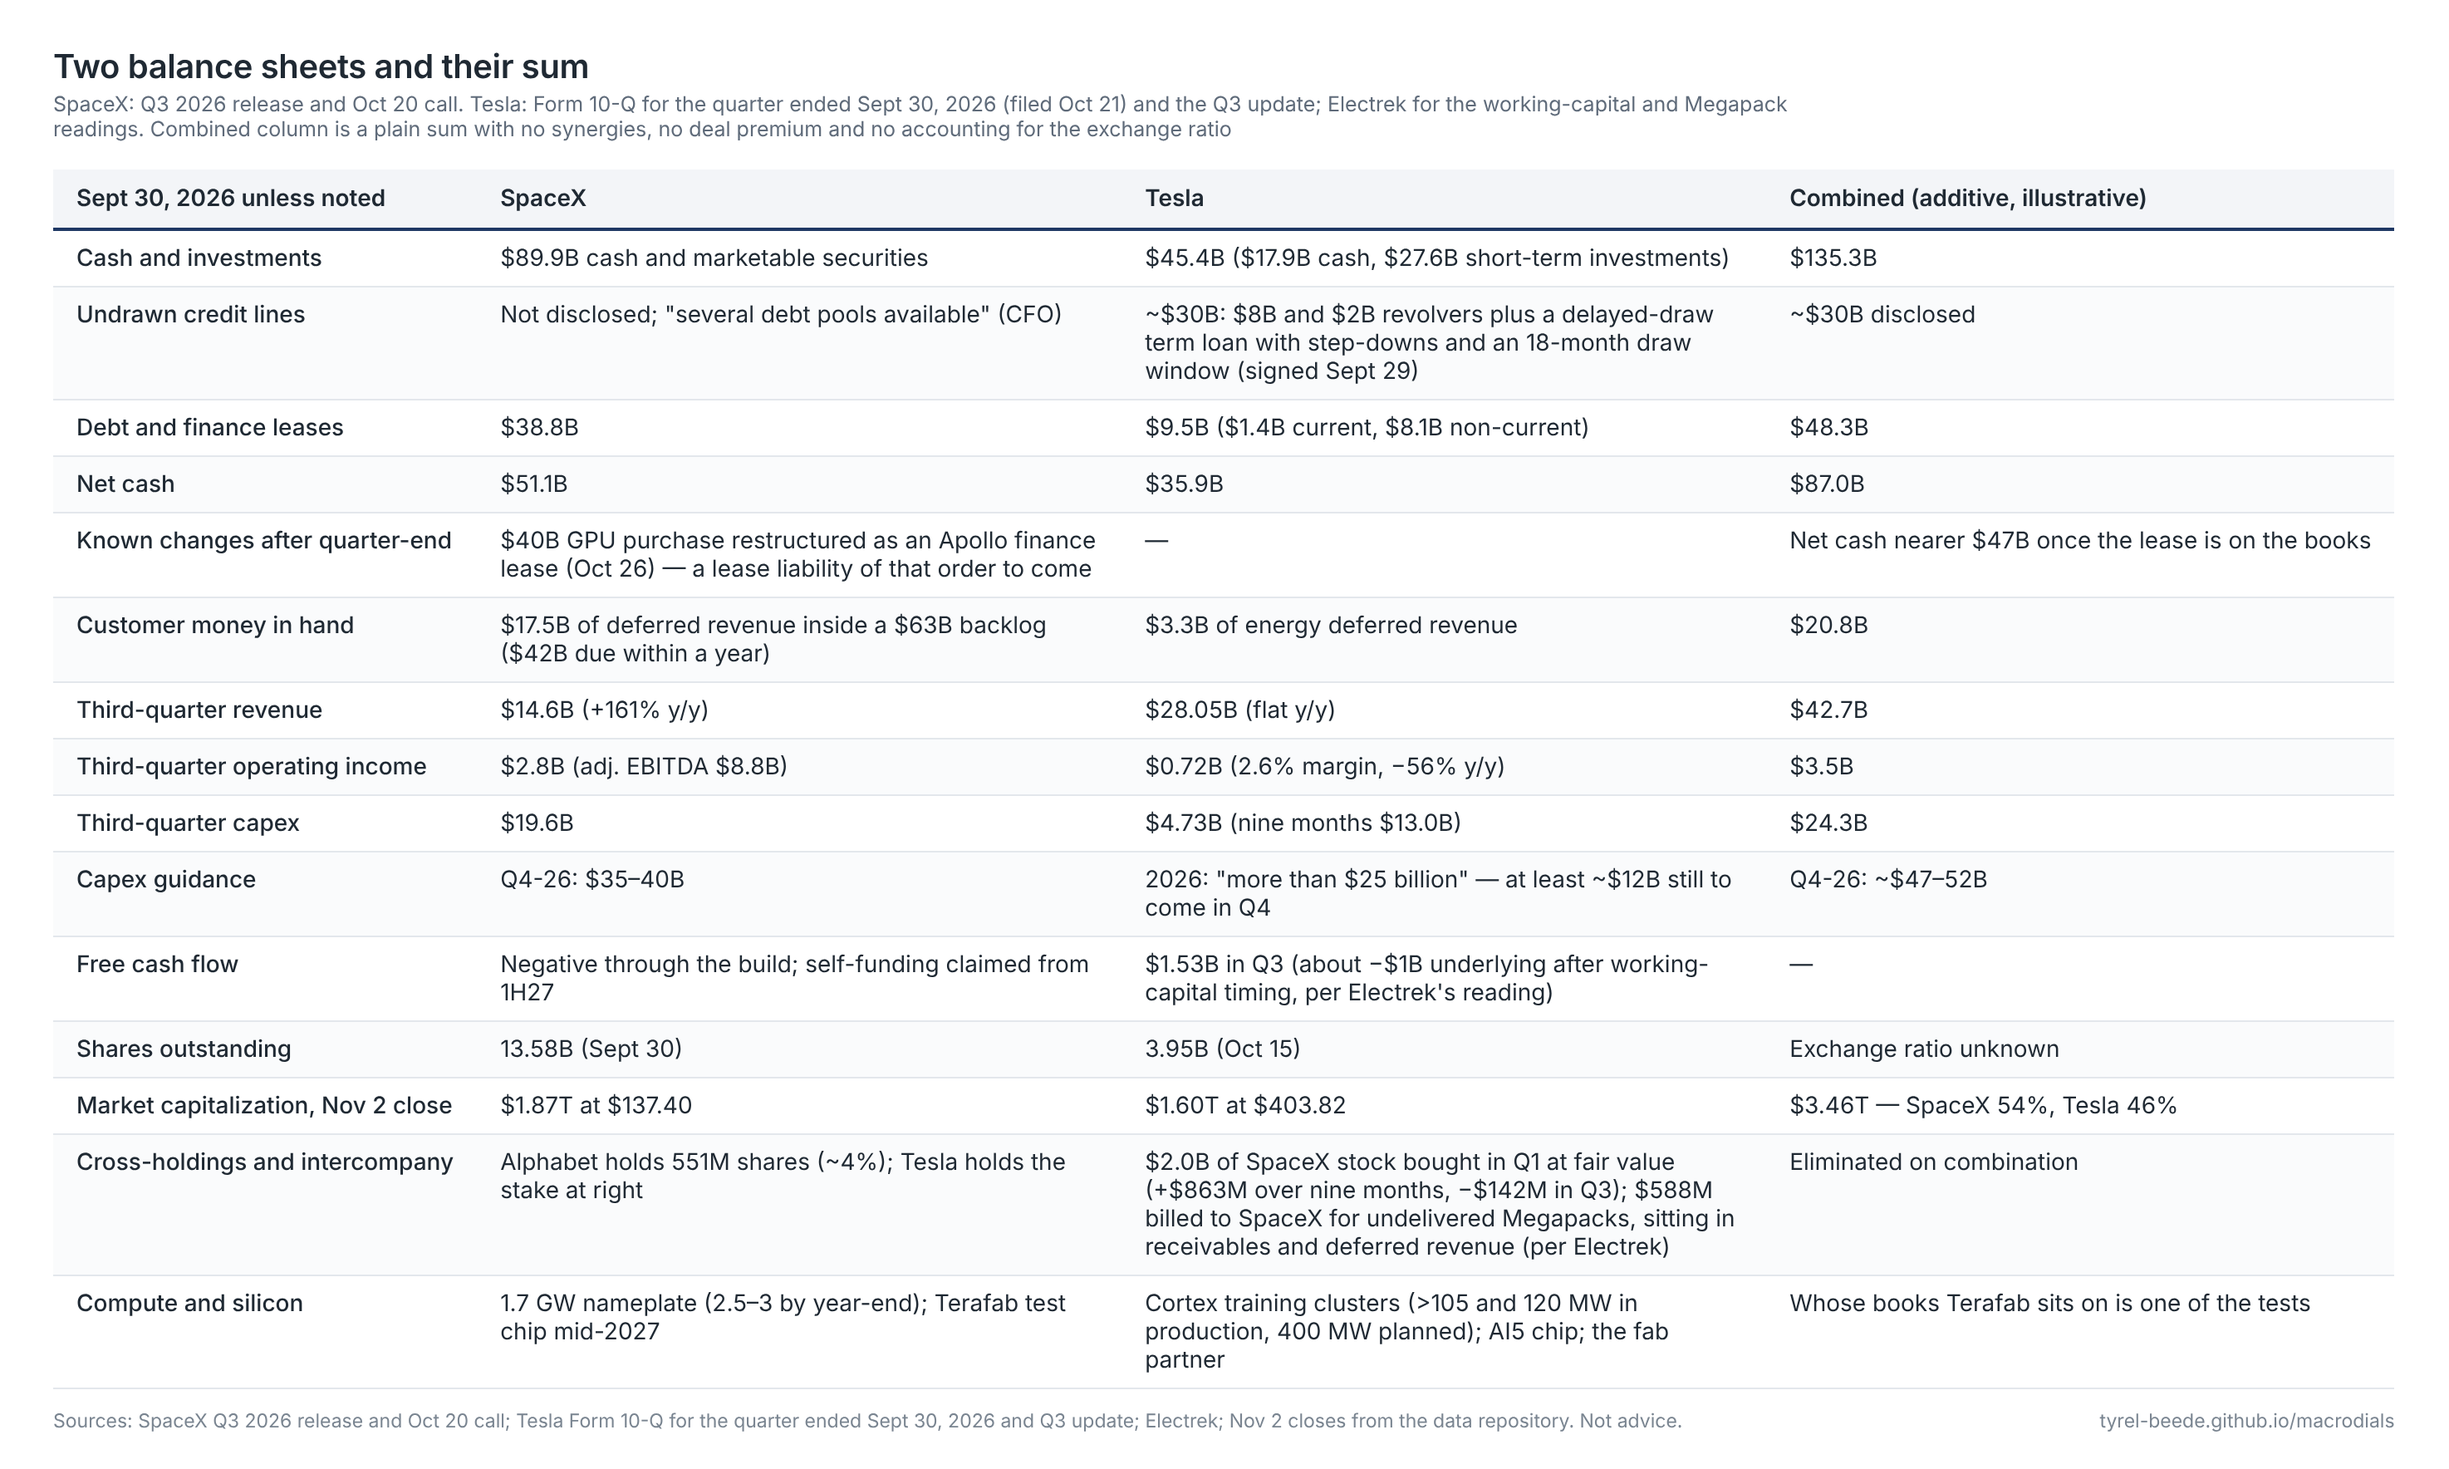
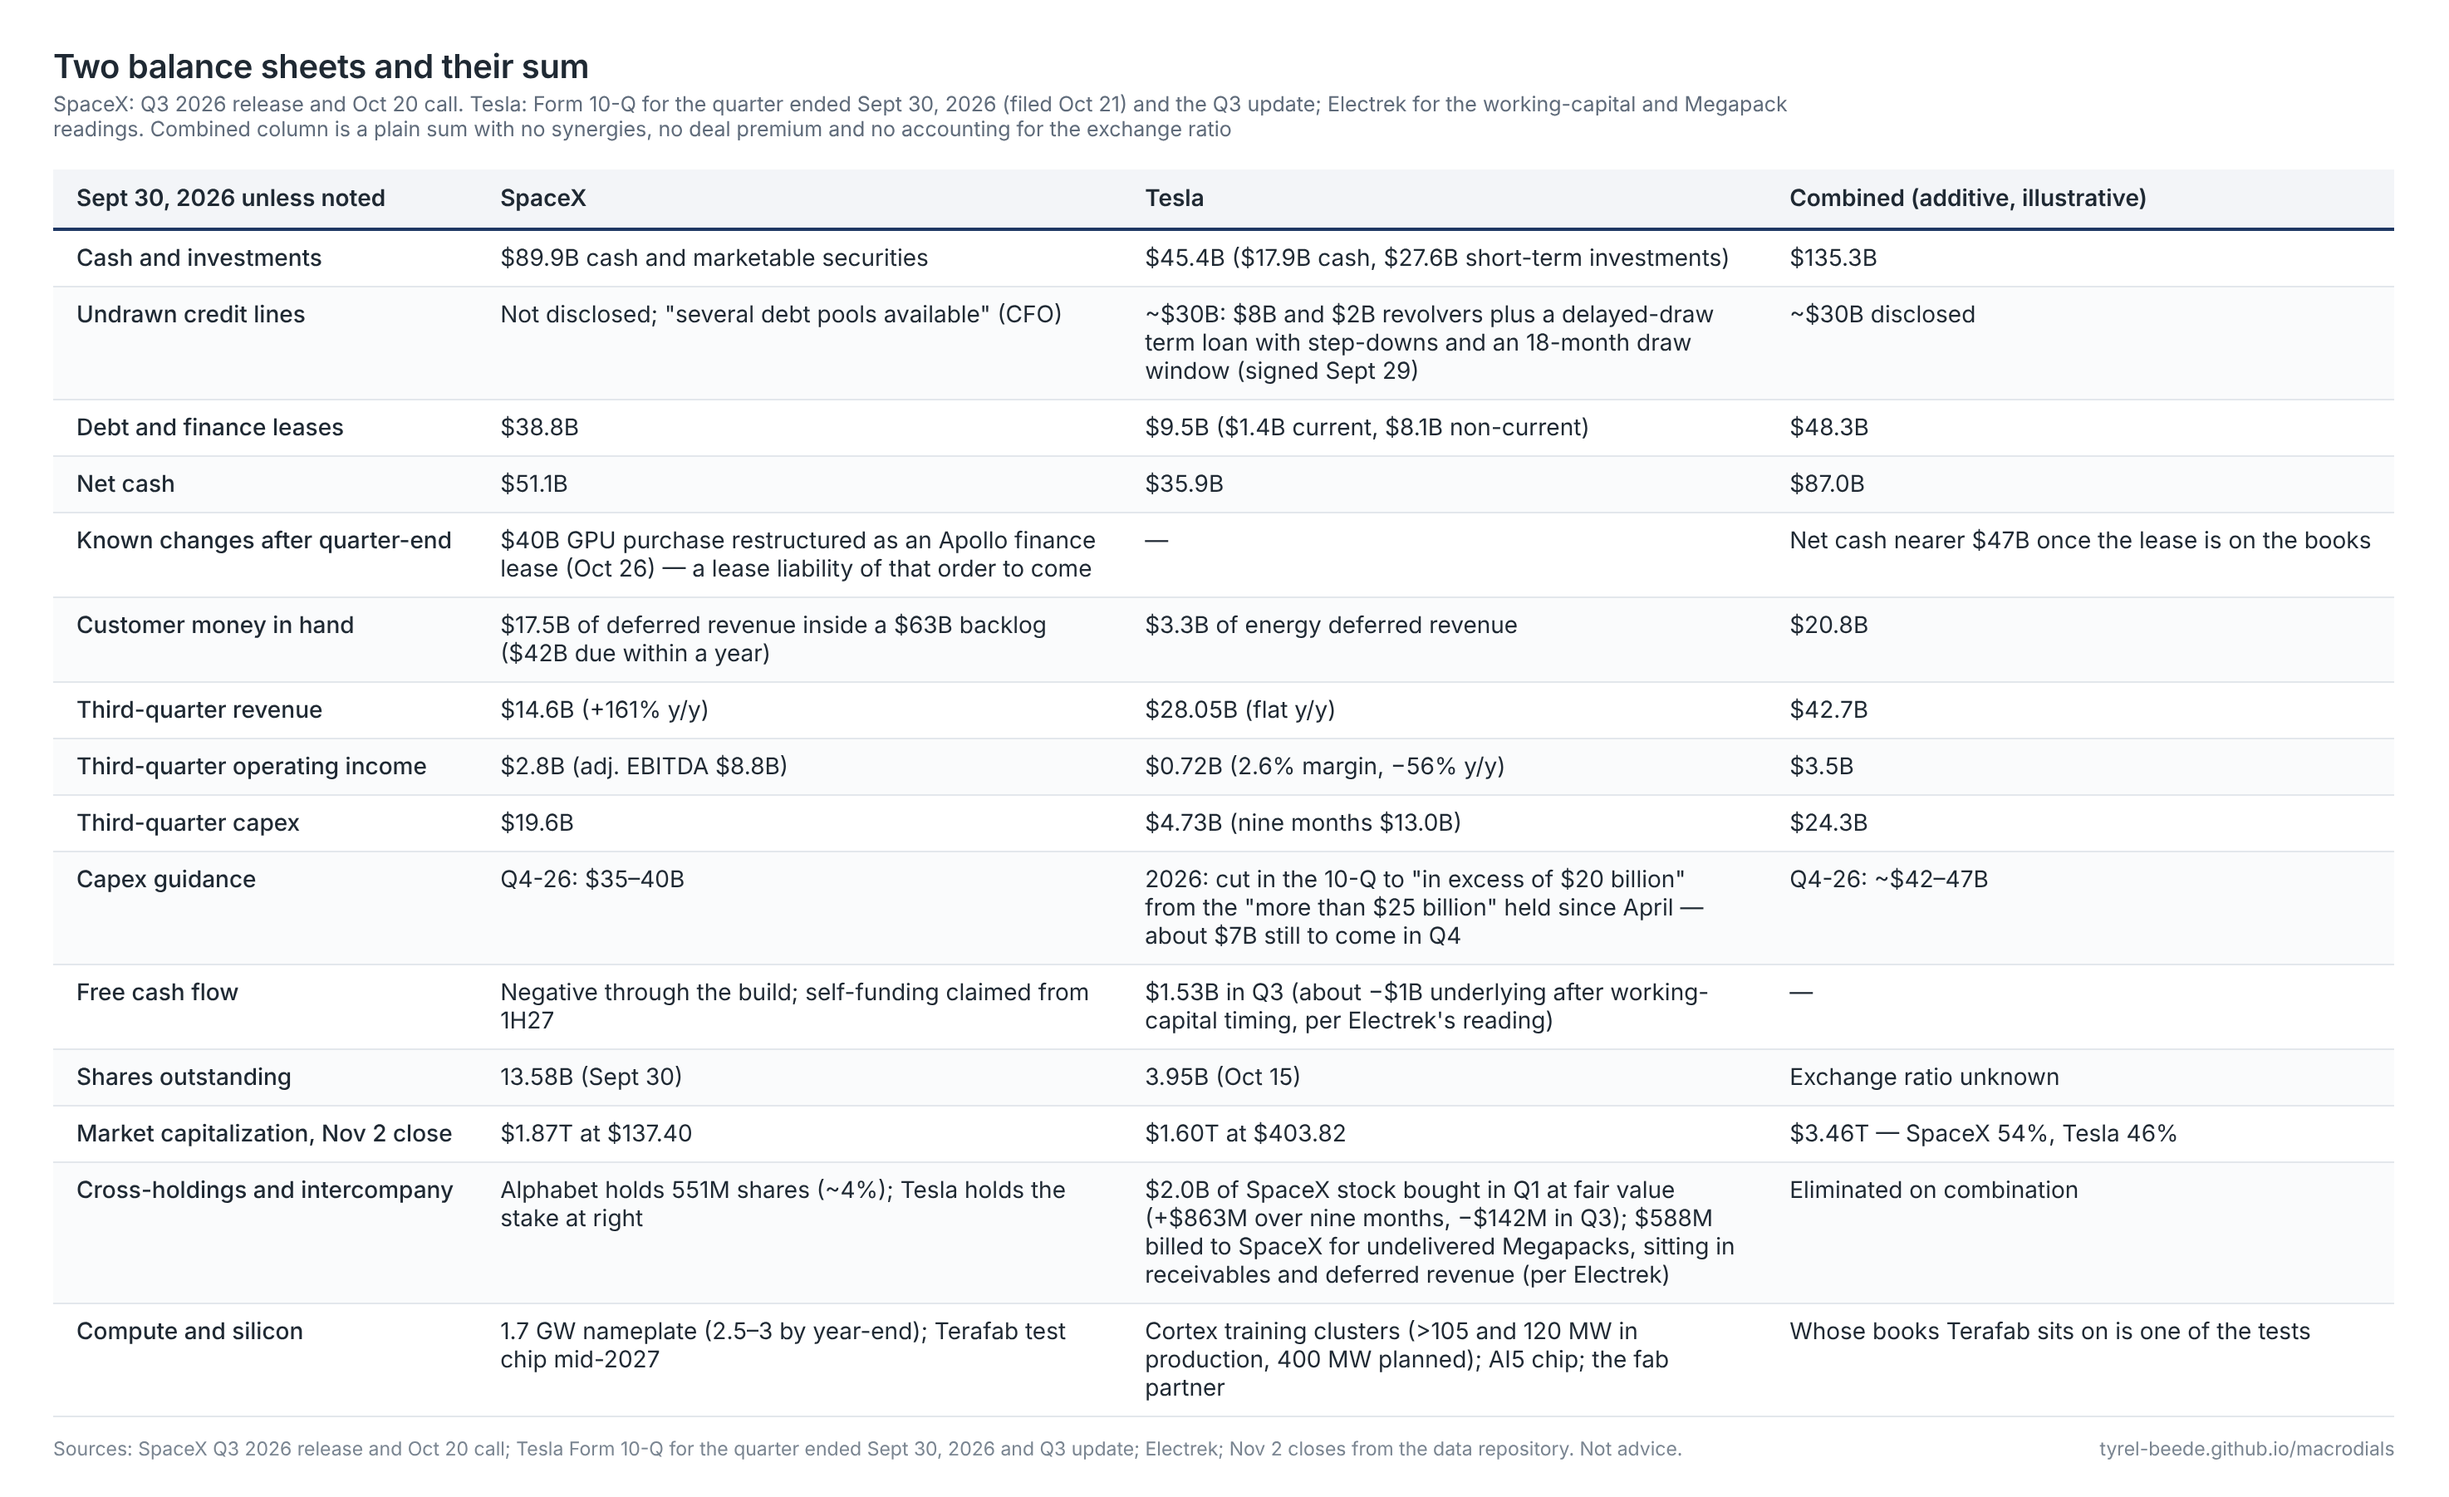
Balance-sheet page: Tesla's 2026 capex guide was cut to "in excess of $20 billion"
The 10-Q lowered the full-year guide from "more than $25 billion" (held since April), so about
$7B remains for Q4 — the article had this right; the new page and its table did not.

Claude-Session: https://claude.ai/code/session_018bD6wvLDvuXJaxpEr5BHs2

diff --git a/tools/site_tables.py b/tools/site_tables.py
@@ -104,7 +104,7 @@ STATIC["balance-sheets"] = [
     ["Third-quarter revenue", "$14.6B (+161% y/y)", "$28.05B (flat y/y)", "$42.7B"],
     ["Third-quarter operating income", "$2.8B (adj. EBITDA $8.8B)", "$0.72B (2.6% margin, −56% y/y)", "$3.5B"],
     ["Third-quarter capex", "$19.6B", "$4.73B (nine months $13.0B)", "$24.3B"],
-    ["Capex guidance", "Q4-26: $35–40B", "2026: \"more than $25 billion\" — at least ~$12B still to come in Q4", "Q4-26: ~$47–52B"],
+    ["Capex guidance", "Q4-26: $35–40B", "2026: cut in the 10-Q to \"in excess of $20 billion\" from the \"more than $25 billion\" held since April — about $7B still to come in Q4", "Q4-26: ~$42–47B"],
     ["Free cash flow", "Negative through the build; self-funding claimed from 1H27", "$1.53B in Q3 (about −$1B underlying after working-capital timing, per Electrek's reading)", "—"],
     ["Shares outstanding", "13.58B (Sept 30)", "3.95B (Oct 15)", "Exchange ratio unknown"],
     ["Market capitalization, Nov 2 close", "$1.87T at $137.40", "$1.60T at $403.82", "$3.46T — SpaceX 54%, Tesla 46%"],
@@ -117,7 +117,7 @@ STATIC["versions"] = [
     ["The bull's sheet (Maguire 1.0)", "SpaceX, plus orbital compute and a chip fab as revenue lines. Tesla absent", "SpaceX plus $31B of orbital revenue and fab revenue in 2028", "SpaceX's, with no capex for orbital or the fab", "Reference columns on Summary and Valuation; the Bridge sheet"],
     ["Model 2.0 (scenarios 2–4)", "SpaceX as reported, with Terafab and Starmind as capex programs. Tesla absent", "SpaceX's three segments; no Tesla revenue", "SpaceX's, with leases, prepayments, debt and equity in the bridge", "Compute, Starlink, Launch, Consolidated"],
     ["Model 2.0 with the Tesla toggle on", "As above, plus Tesla's liquidity as a funding source", "Unchanged — no Tesla revenue", "Adds ~$75B of Tesla cash and lines to the bridge; no Tesla capex, debt or shares", "Assumptions › Combination toggle; Consolidated › Tesla pool"],
-    ["A combined SpaceX–Tesla company (the article's thesis)", "Both companies, with eliminations", "Adds Tesla's ~$112B run-rate at a 2–3% operating margin, and the robotaxi program", "Adds $45B cash, $30B of lines, $9.5B debt, >$25B a year of capex, and 3.95B shares at an exchange ratio the special committees would set", "Not modeled — see the page for what a full version needs"],
+    ["A combined SpaceX–Tesla company (the article's thesis)", "Both companies, with eliminations", "Adds Tesla's ~$112B run-rate at a 2–3% operating margin, and the robotaxi program", "Adds $45B cash, $30B of lines, $9.5B debt, $20B-plus a year of capex, and 3.95B shares at an exchange ratio the special committees would set", "Not modeled — see the page for what a full version needs"],
 ]
 TITLES.update({
     "balance-sheets": "Two balance sheets and their sum",

diff --git a/docs/model/balance-sheets.md b/docs/model/balance-sheets.md
@@ -27,13 +27,13 @@ At the Nov 2 close of $137.40 the company's 13.58 billion shares were worth abou
 
 Tesla's quarter, reported Oct 21, was a flat one at the top — $28.05 billion of revenue, unchanged from a year earlier — and a thin one underneath: $718 million of operating income, a 2.6% margin, down 56%. Cash and short-term investments stood at $45.4 billion ($17.9 billion of cash, $27.6 billion of investments) against $9.5 billion of debt and finance leases, for net cash of about $36 billion. On Sept 29 the company added roughly $30 billion of undrawn capacity: $8 billion and $2 billion revolving facilities and a delayed-draw term loan with step-downs and an eighteen-month draw window, which is the kind of facility a company signs when it expects to need money on a schedule.
 
-Capex was $4.73 billion in the quarter and $13.0 billion over nine months, against full-year guidance of "more than $25 billion," which leaves at least $12 billion for the fourth quarter. Free cash flow was $1.53 billion, but about $2.6 billion of the quarter's operating cash flow was working-capital timing by Electrek's reading of the 10-Q, which would put the underlying figure roughly a billion dollars negative. The operating-expense line the update blames is "SI and other R&D projects" — SI being Tesla's own name for its AI programs too.
+Capex was $4.73 billion in the quarter and $13.0 billion over nine months, against full-year guidance the 10-Q cut to "in excess of $20 billion" from the "more than $25 billion" it had held since April — which leaves about $7 billion for the fourth quarter, and makes Tesla a company trimming its build while its would-be partner guides $35–40 billion for the same quarter. Free cash flow was $1.53 billion, but about $2.6 billion of the quarter's operating cash flow was working-capital timing by Electrek's reading of the 10-Q, which would put the underlying figure roughly a billion dollars negative. The operating-expense line the update blames is "SI and other R&D projects" — SI being Tesla's own name for its AI programs too.
 
 Two lines tie the two balance sheets together already. Tesla bought $2.0 billion of SpaceX stock in the first quarter, before the IPO, and carries it at fair value through earnings: an $863 million unrealized gain over nine months, including a $142 million loss in the third quarter. And Tesla billed SpaceX $588 million in the quarter for Megapack batteries "that have not been delivered," an amount that sat at quarter-end in both accounts receivable and deferred revenue — a bill for product not yet shipped, unpaid, disclosed the day after SpaceX guided fourth-quarter capex to $35–40 billion. Beyond the cash, Tesla brings the pieces of the stack SpaceX lacks: the AI5 chip and its fab partner, the Cortex training clusters (more than 105 and 120 megawatts in production, 400 planned by year-end, against SpaceX's roughly 2,000), Megapack batteries for the data centers, and 3.95 billion shares at $403.82 — a currency worth about $1.6 trillion, held by a large retail and index base that could fund a compute build in paper rather than cash.
 
 ## The two together
 
-Added without adjustment, the combination at Sept 30 holds $135 billion of cash and investments and $30 billion of disclosed undrawn lines against $48 billion of debt and leases — net cash of $87 billion, nearer $47 billion once the Apollo lease is on the books — and earns $42.7 billion of quarterly revenue at $3.5 billion of operating income, while spending $24 billion a quarter on capex with $47–52 billion guided for the fourth. At Nov 2 prices the combined market value is about $3.46 trillion, 54% of it SpaceX and 46% Tesla.
+Added without adjustment, the combination at Sept 30 holds $135 billion of cash and investments and $30 billion of disclosed undrawn lines against $48 billion of debt and leases — net cash of $87 billion, nearer $47 billion once the Apollo lease is on the books — and earns $42.7 billion of quarterly revenue at $3.5 billion of operating income, while spending $24 billion a quarter on capex with $42–47 billion guided for the fourth. At Nov 2 prices the combined market value is about $3.46 trillion, 54% of it SpaceX and 46% Tesla.
 
 [![Two balance sheets and their sum](images/balance-sheets.png)](images/balance-sheets.png)
 
@@ -48,7 +48,7 @@ In the workbook as it stands, switching the Tesla toggle on does one thing: it l
 
 A full combined model would need five things the workbook does not have, and they are listed here so that anyone building it starts from the right questions:
 
-1. **A Tesla segment** — automotive and energy revenue (about $112 billion of run-rate at a 2–3% operating margin today), its own capex (more than $25 billion a year) and its own depreciation, with the robotaxi business modeled as a cost before a revenue.
+1. **A Tesla segment** — automotive and energy revenue (about $112 billion of run-rate at a 2–3% operating margin today), its own capex (in excess of $20 billion this year, after the cut) and its own depreciation, with the robotaxi business modeled as a cost before a revenue.
 2. **Eliminations** — the SpaceX stake and its mark-to-market, the Megapack receivable and deferred revenue, and any compute Tesla's Cortex sells or rents to the combined fleet.
 3. **The silicon on one set of books** — Terafab's capex and, later, its cost advantage sit today in SpaceX's plan; whose books carry them is one of the dated tests, and in a combined company it stops mattering.
 4. **An exchange ratio** — without it there is no per-share number for either holder; with it, the Valuation sheet's two methods apply to the combined entity unchanged.

diff --git a/docs/model/tables/versions.md b/docs/model/tables/versions.md
@@ -4,4 +4,4 @@
 | The bull's sheet (Maguire 1.0) | SpaceX, plus orbital compute and a chip fab as revenue lines. Tesla absent | SpaceX plus $31B of orbital revenue and fab revenue in 2028 | SpaceX's, with no capex for orbital or the fab | Reference columns on Summary and Valuation; the Bridge sheet |
 | Model 2.0 (scenarios 2–4) | SpaceX as reported, with Terafab and Starmind as capex programs. Tesla absent | SpaceX's three segments; no Tesla revenue | SpaceX's, with leases, prepayments, debt and equity in the bridge | Compute, Starlink, Launch, Consolidated |
 | Model 2.0 with the Tesla toggle on | As above, plus Tesla's liquidity as a funding source | Unchanged — no Tesla revenue | Adds ~$75B of Tesla cash and lines to the bridge; no Tesla capex, debt or shares | Assumptions › Combination toggle; Consolidated › Tesla pool |
-| A combined SpaceX–Tesla company (the article's thesis) | Both companies, with eliminations | Adds Tesla's ~$112B run-rate at a 2–3% operating margin, and the robotaxi program | Adds $45B cash, $30B of lines, $9.5B debt, >$25B a year of capex, and 3.95B shares at an exchange ratio the special committees would set | Not modeled — see the page for what a full version needs |
+| A combined SpaceX–Tesla company (the article's thesis) | Both companies, with eliminations | Adds Tesla's ~$112B run-rate at a 2–3% operating margin, and the robotaxi program | Adds $45B cash, $30B of lines, $9.5B debt, $20B-plus a year of capex, and 3.95B shares at an exchange ratio the special committees would set | Not modeled — see the page for what a full version needs |

diff --git a/docs/model/tables/balance-sheets.md b/docs/model/tables/balance-sheets.md
@@ -9,7 +9,7 @@
 | Third-quarter revenue | $14.6B (+161% y/y) | $28.05B (flat y/y) | $42.7B |
 | Third-quarter operating income | $2.8B (adj. EBITDA $8.8B) | $0.72B (2.6% margin, −56% y/y) | $3.5B |
 | Third-quarter capex | $19.6B | $4.73B (nine months $13.0B) | $24.3B |
-| Capex guidance | Q4-26: $35–40B | 2026: "more than $25 billion" — at least ~$12B still to come in Q4 | Q4-26: ~$47–52B |
+| Capex guidance | Q4-26: $35–40B | 2026: cut in the 10-Q to "in excess of $20 billion" from the "more than $25 billion" held since April — about $7B still to come in Q4 | Q4-26: ~$42–47B |
 | Free cash flow | Negative through the build; self-funding claimed from 1H27 | $1.53B in Q3 (about −$1B underlying after working-capital timing, per Electrek's reading) | — |
 | Shares outstanding | 13.58B (Sept 30) | 3.95B (Oct 15) | Exchange ratio unknown |
 | Market capitalization, Nov 2 close | $1.87T at $137.40 | $1.60T at $403.82 | $3.46T — SpaceX 54%, Tesla 46% |
